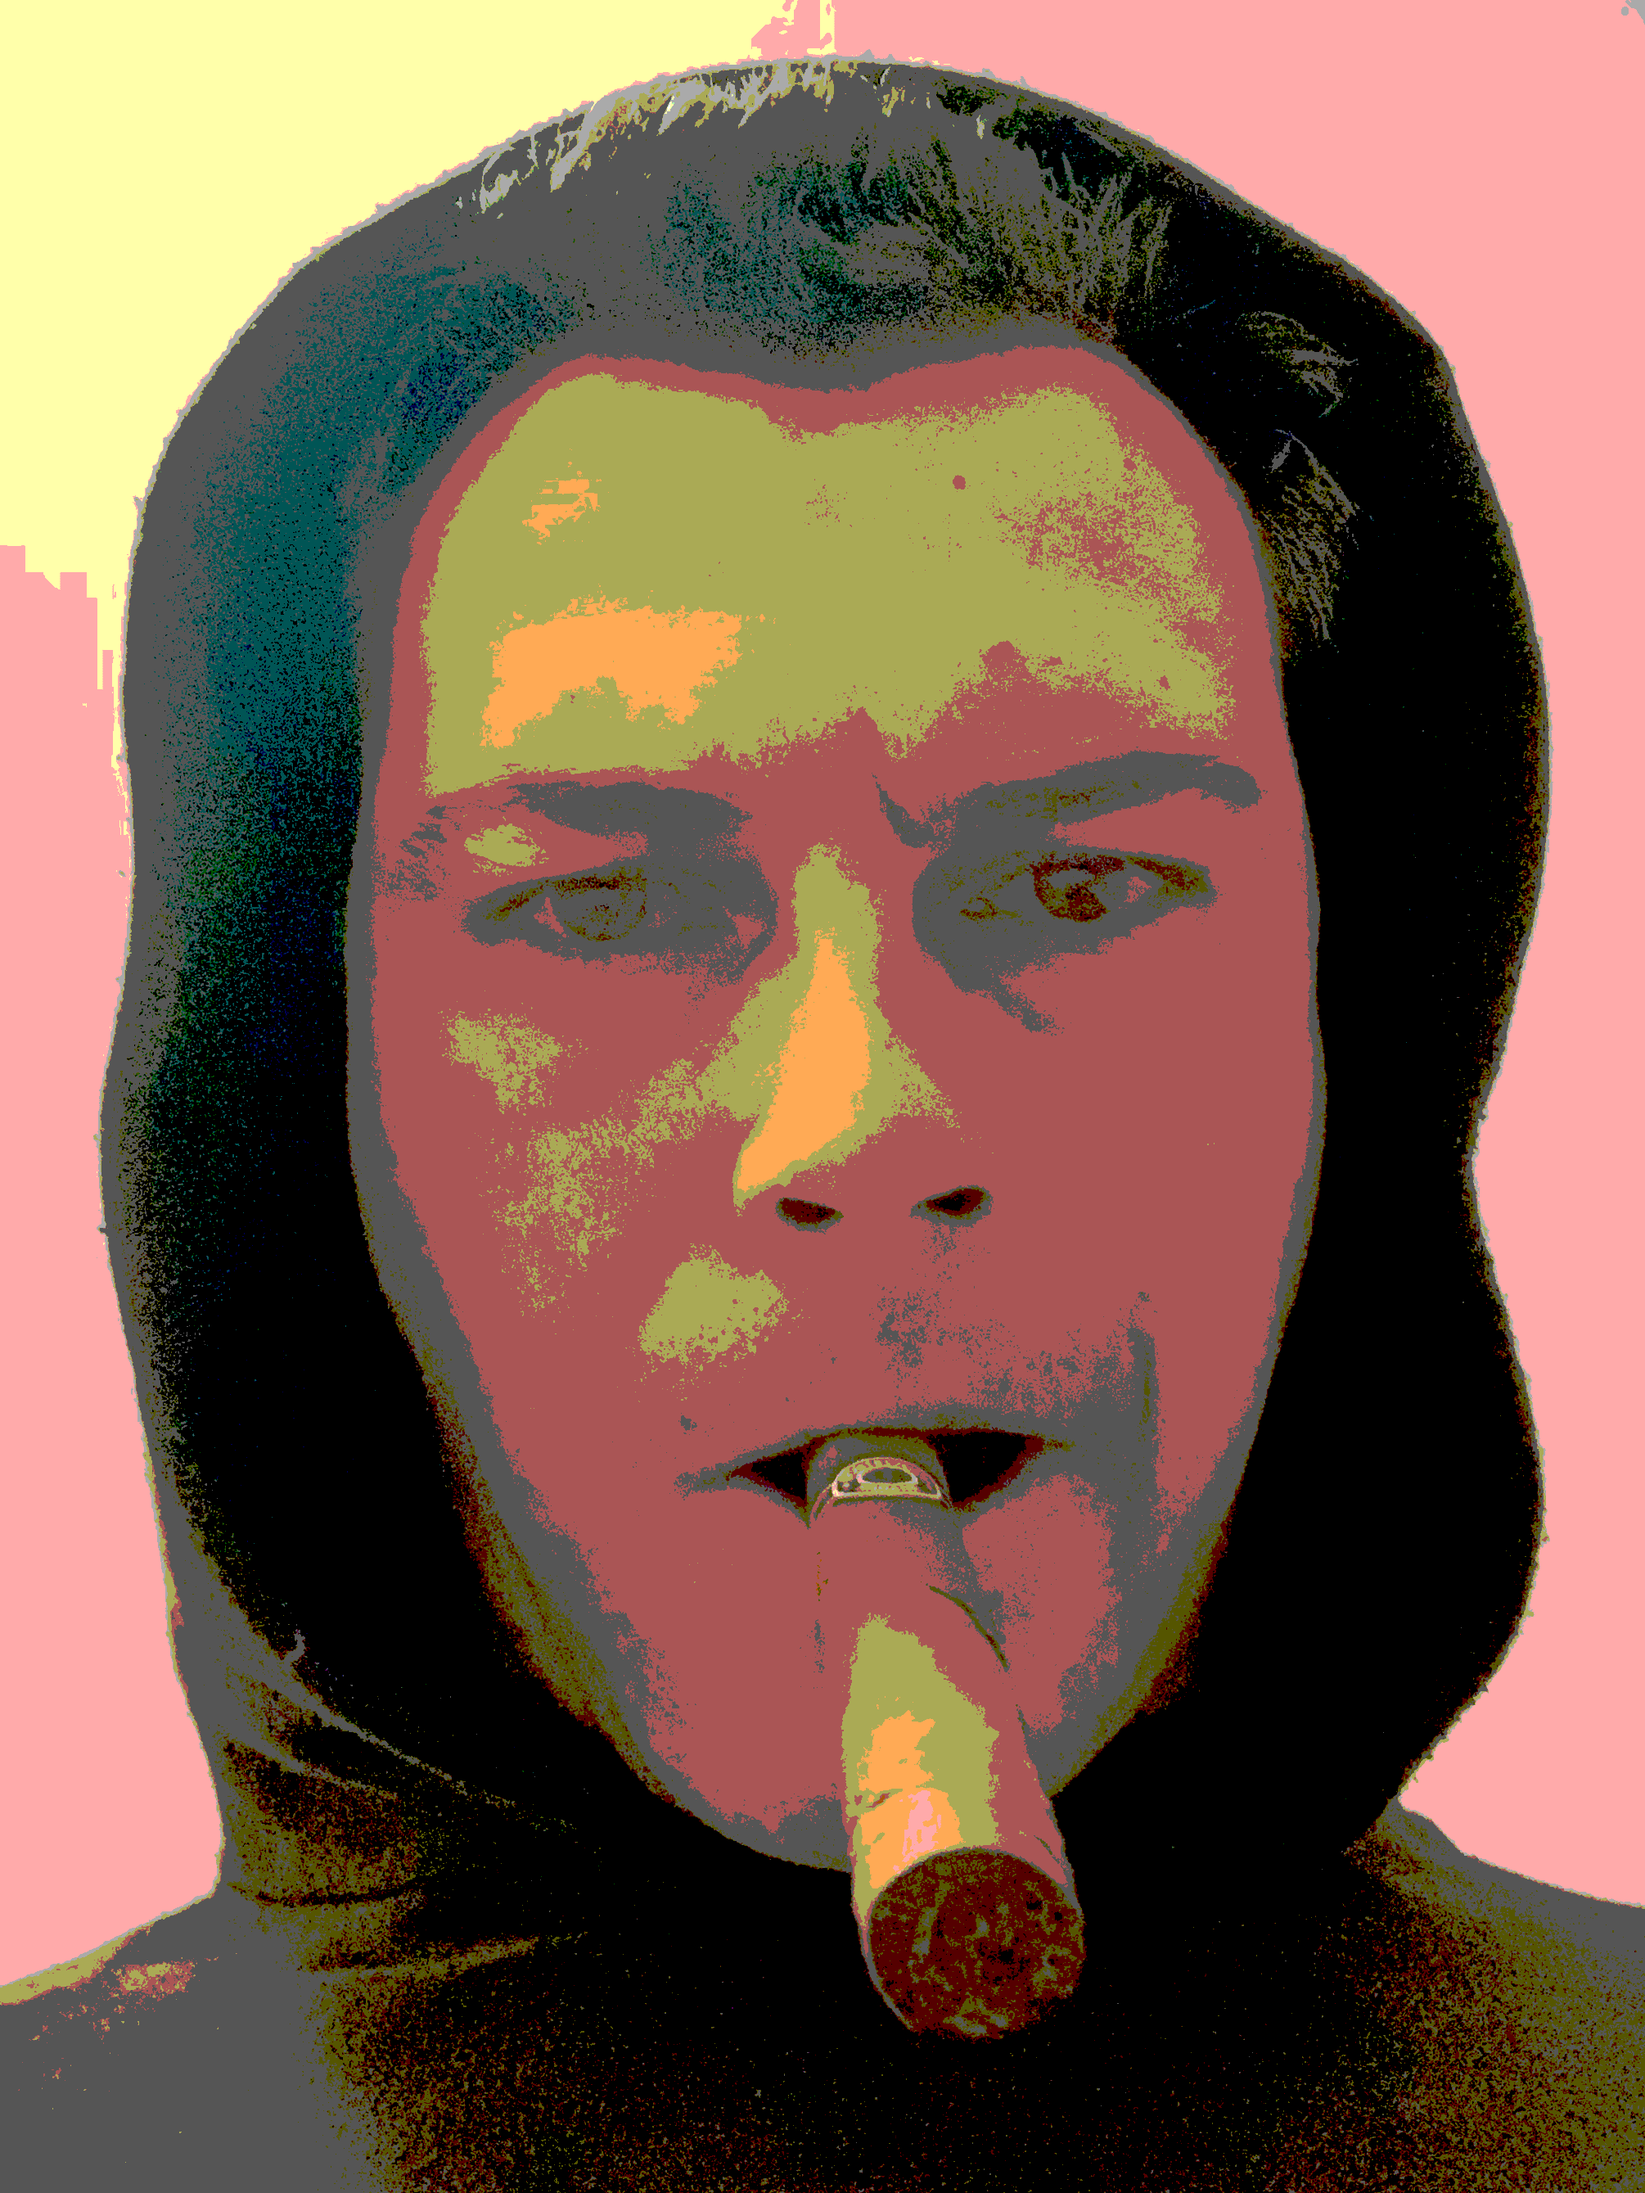
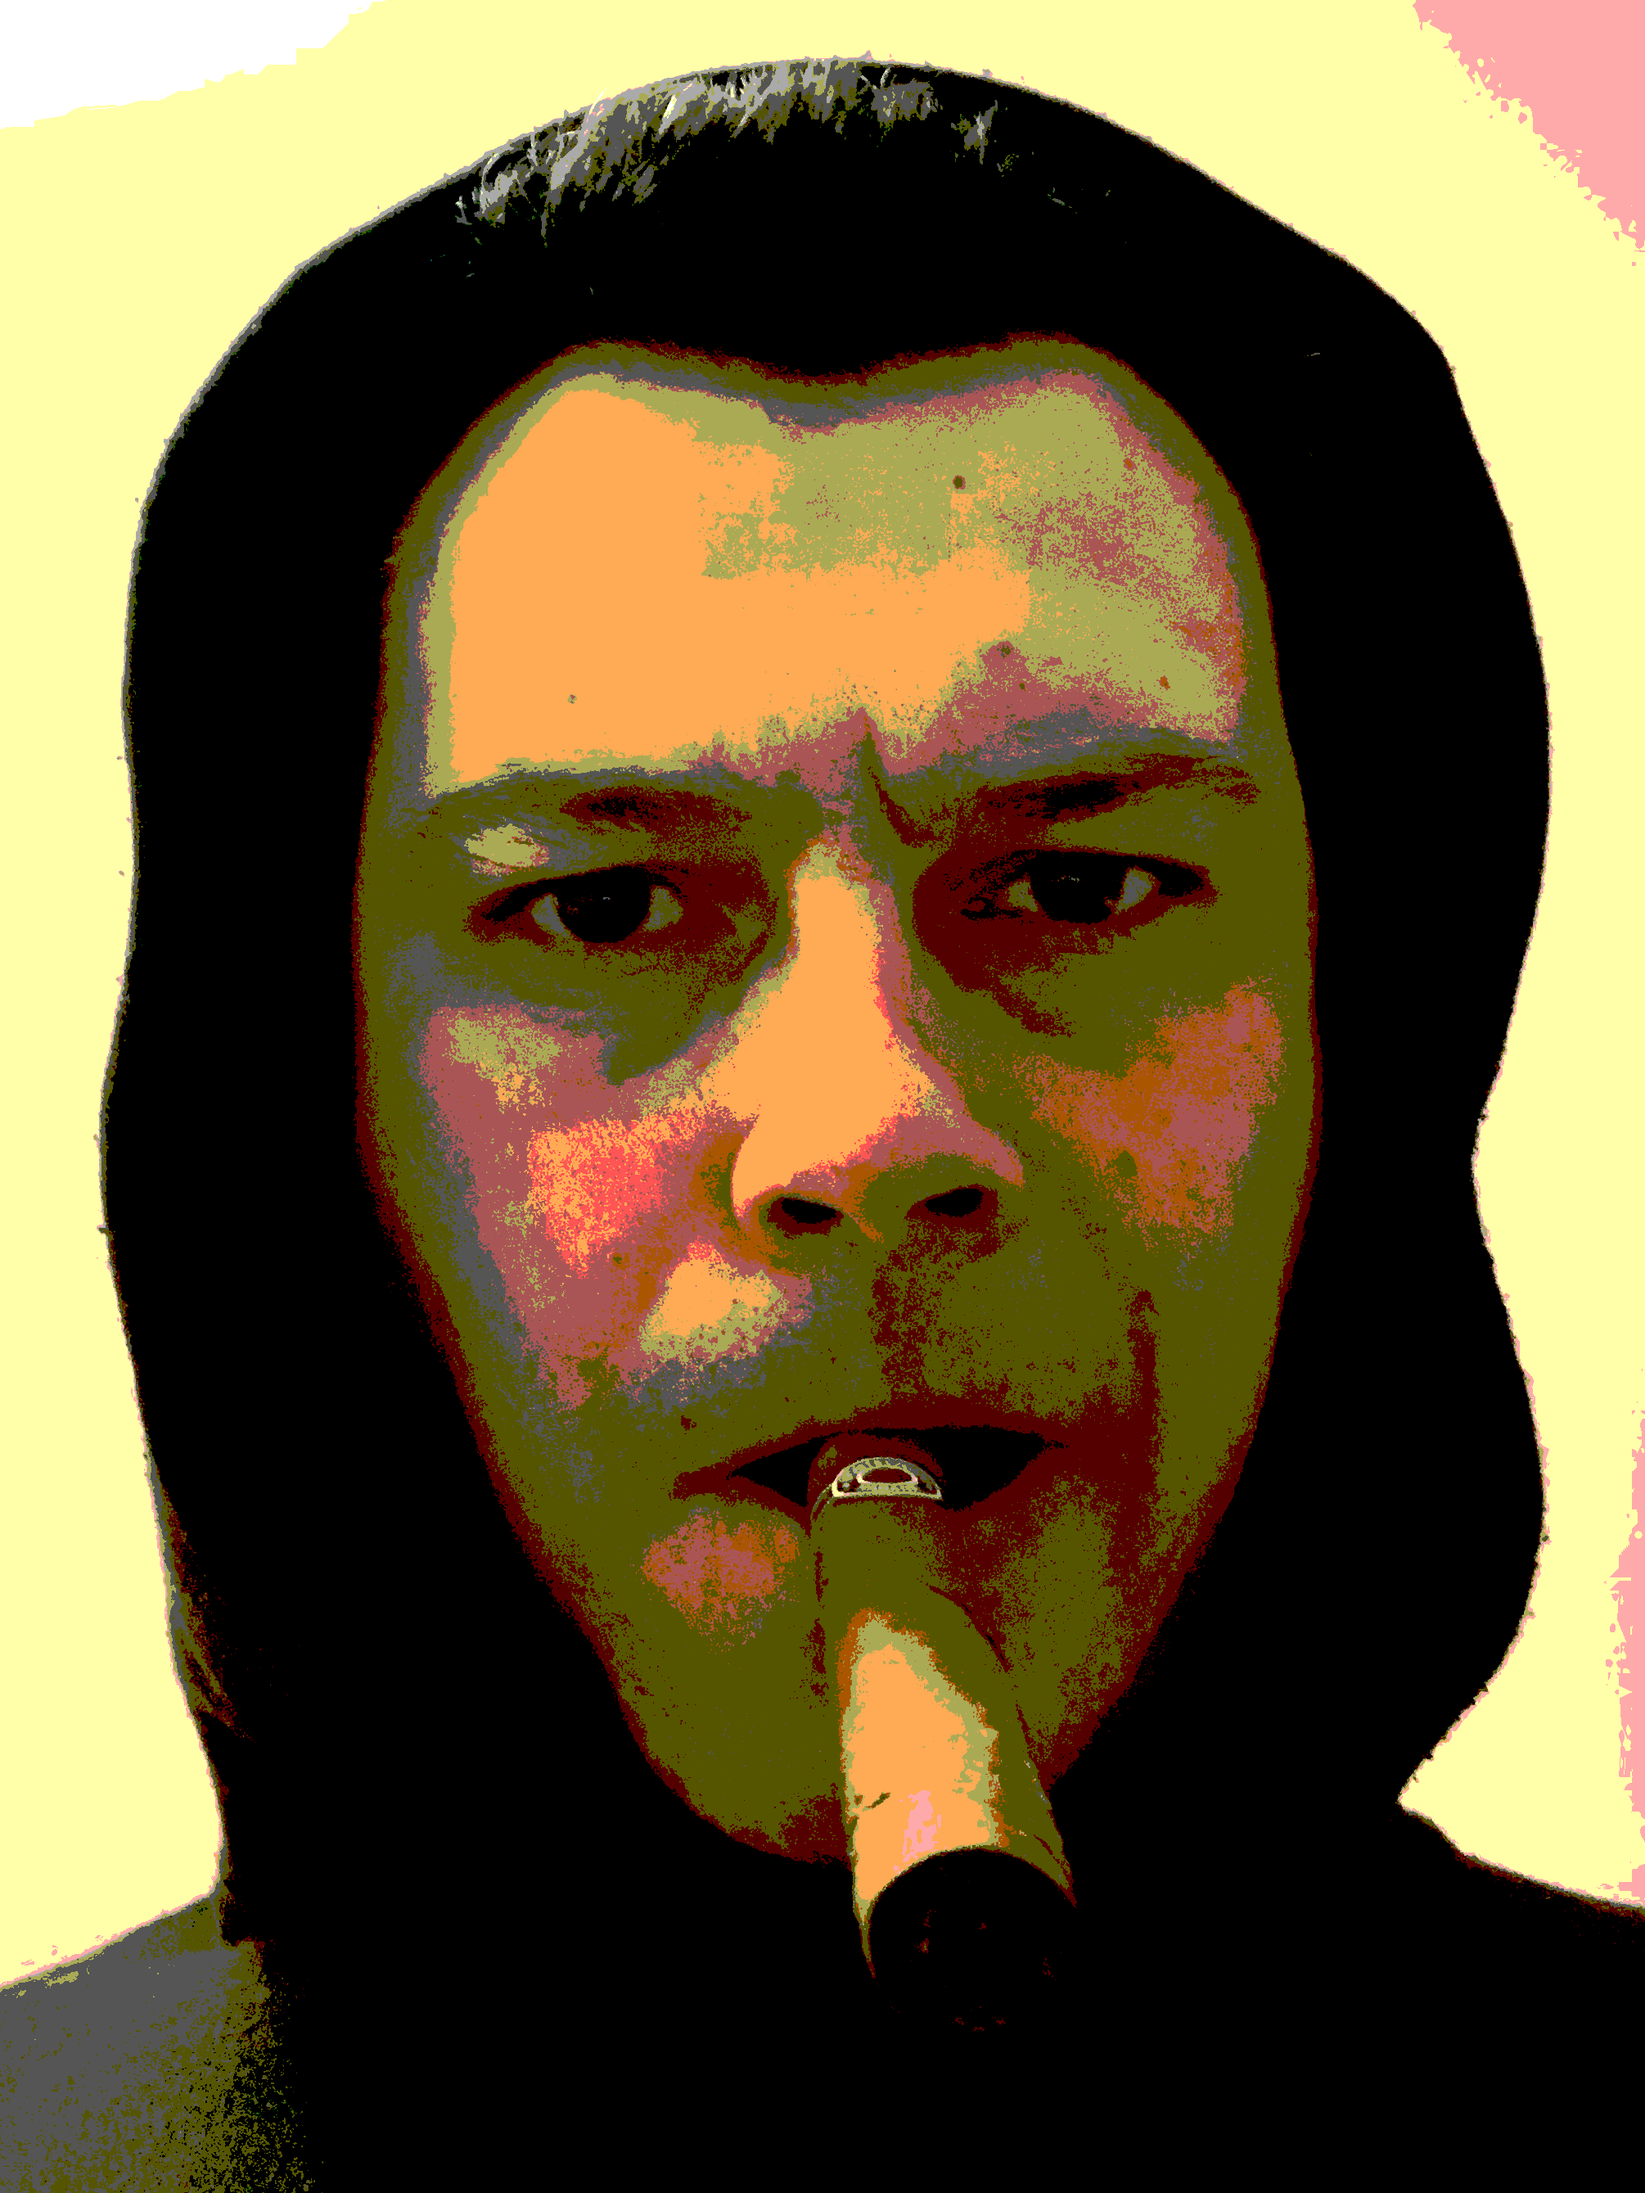
auto compute cga64 brightness

diff --git a/filter/cga.go b/filter/cga.go
@@ -3,11 +3,11 @@ package filter
 import (
 	"image/color"
 	"log"
+	"sort"
 )
 
 var (
 	CGAPalettes map[int]color.Palette
-	CGA64Table  []uint32
 )
 
 func init() {
@@ -21,8 +21,9 @@ func init() {
 	CGAPalettes[16] = generatePalette([]uint32{0x0, 0xAA, 0xAA00, 0xAAAA, 0xAA0000, 0xAA00AA, 0xAA5500, 0xAAAAAA,
 		0x555555, 0x5555FF, 0x55FF55, 0x55FFFF, 0xFF5555, 0xFF55FF, 0xFFFF55, 0xFFFFFF})
 
-	// sort.Slice(t, func(i, j int) bool { return sortAsc(t, i, j) })
-	CGAPalettes[64] = generatePalette(initCGA64Table())
+	t64 := initCGA64Table()
+	sort.Slice(t64, func(i, j int) bool { return sortAsc(t64, i, j) })
+	CGAPalettes[64] = generatePalette(t64)
 }
 
 func generatePalette(t []uint32) color.Palette {
@@ -80,15 +81,15 @@ func sortAsc(s []uint32, i, j int) bool {
 	return s[i] < s[j]
 }
 
-func FastCGA64(c color.Color, l bool) color.Color {
+func FastCGA64(c color.Color) color.Color {
 	r, g, b, _ := c.RGBA()
 	r &= 0xFF
 	g &= 0xFF
 	b &= 0xFF
 
-	var m uint32 = 0x4
-	if !l {
-		m = 0x3
+	var m uint32 = 0x3
+	if (r/3 + g/3 + b/3) > (0x100 >> 1) { // compute the r,g,b average brightness
+		m = 0x4
 	}
 
 	r = (m * r) / 0x100

diff --git a/filter/filter.go b/filter/filter.go
@@ -7,7 +7,7 @@ import (
 )
 
 func Transform(c color.Color) color.Color {
-	return FastCGA4(c)
+	return FastCGA64(c)
 }
 
 func rgbaValues(c color.Color) (r, g, b, a uint8) {
